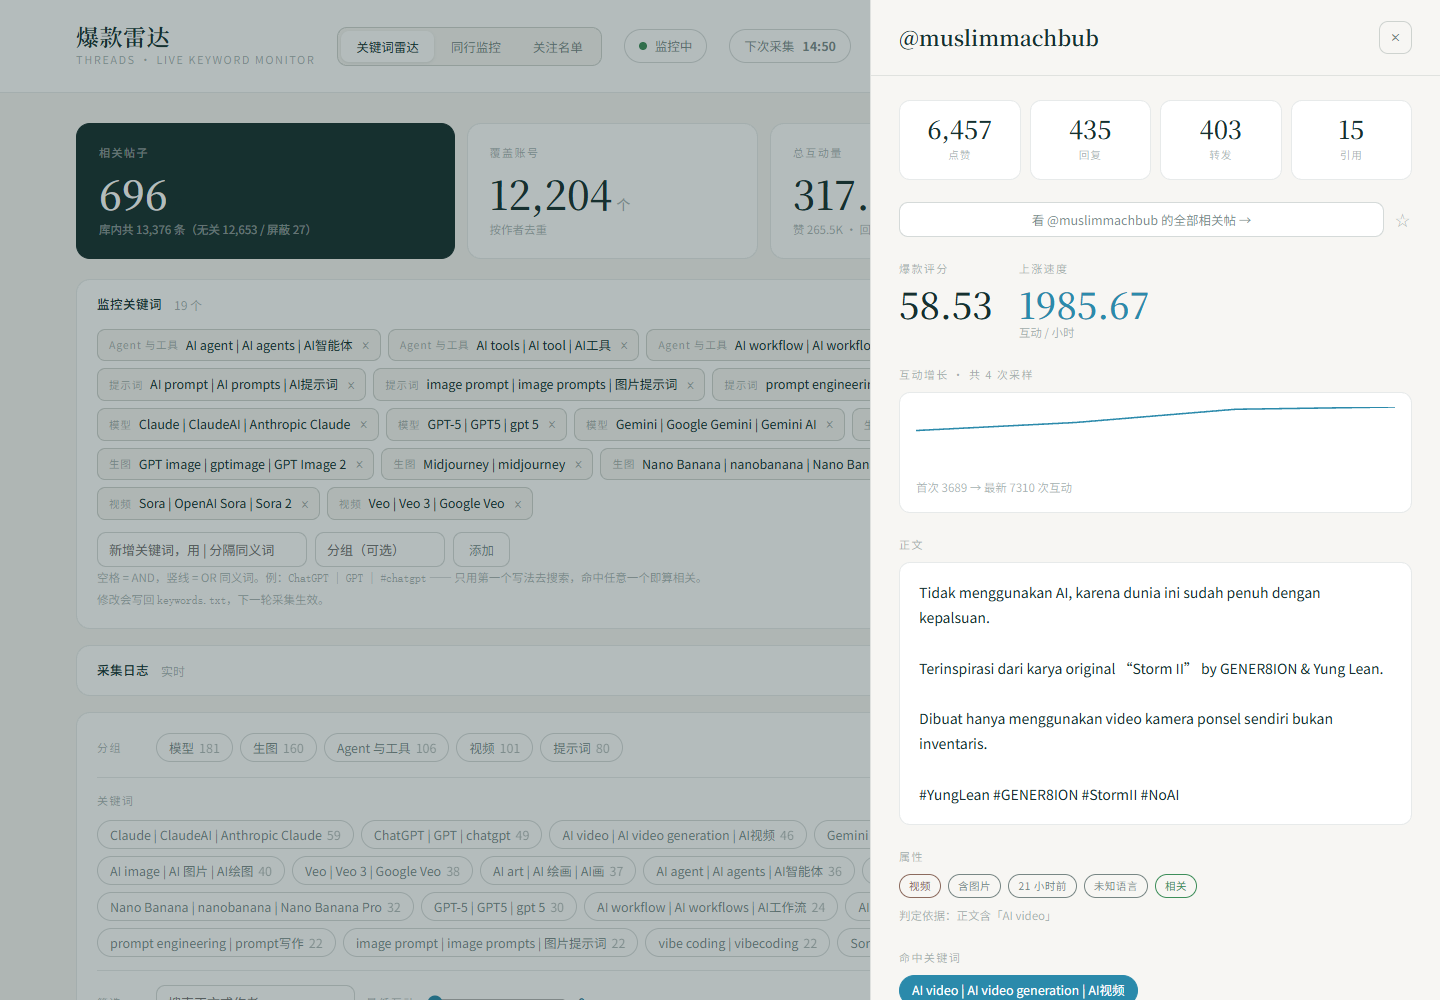
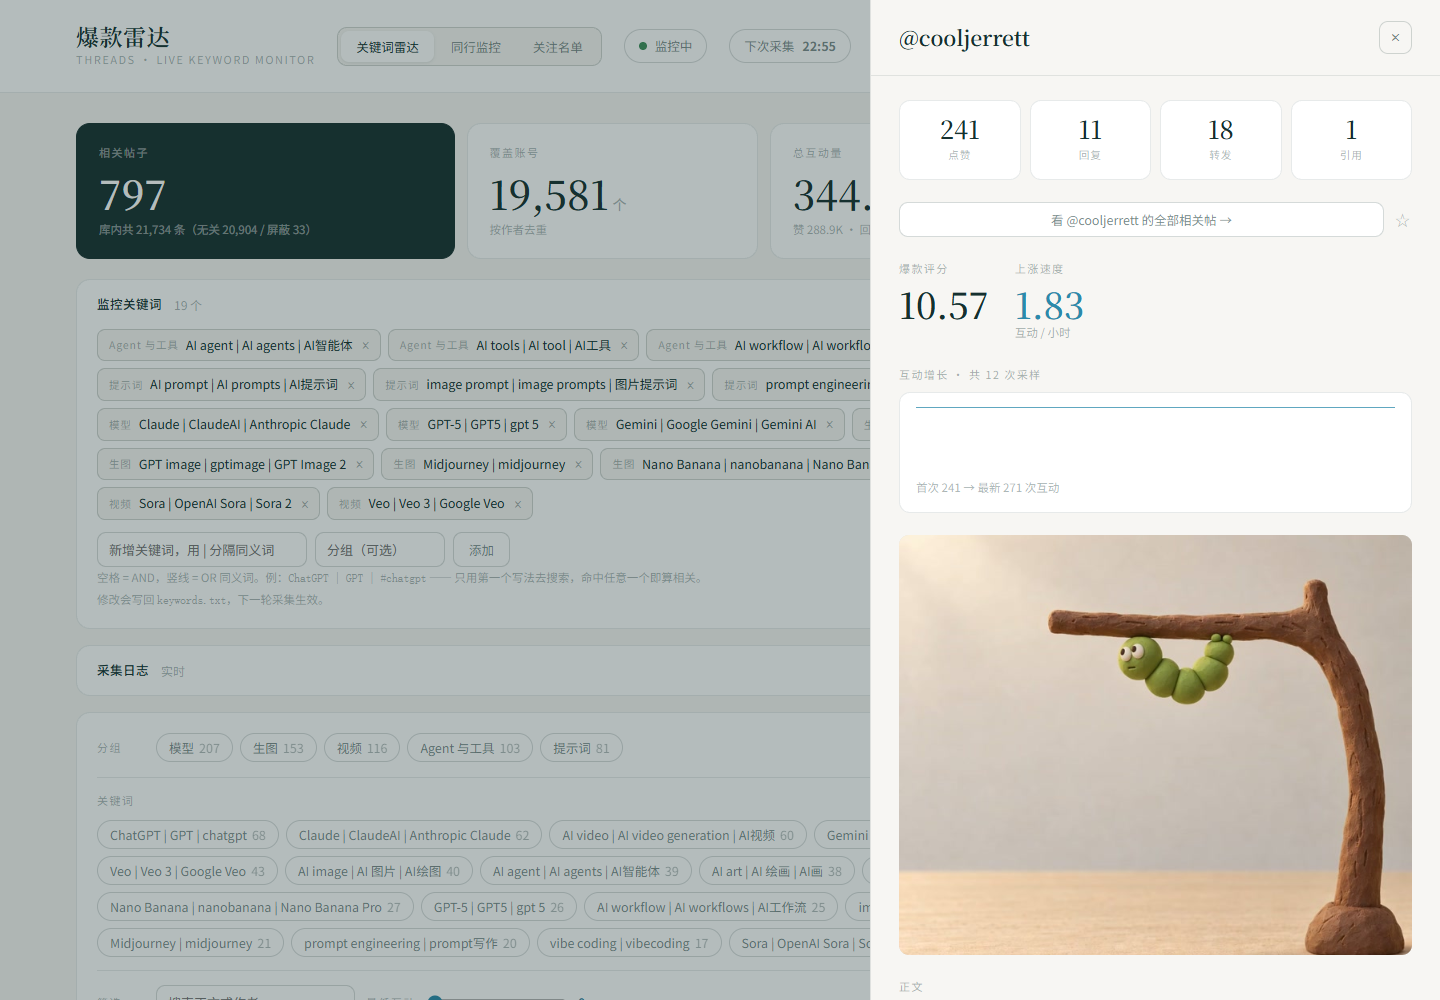
docs: 详情抽屉截图换成带主图的版本，补充缩略图相关说明
post-drawer.png 换成缩略图功能上线后重新拍的（黏土定格动画帖，
抽屉里主图 640x640 清晰可见，属性栏标「视频」），替换掉原先那张
纯文字时代的旧图 —— 否则 README 说支持缩略图、配图里却看不到一张图。

README 补充：
- 特性一览加「带缩略图」一条
- 界面预览里该图的说明加上「主图」
- HTTP 接口节说明 media_type / has_image / thumb 三个媒体字段，
  并提醒视频帖的缩略图是封面帧，「有图」不等于「是图片帖」
- 文件说明节加升级提示：覆盖文件重启即可，启动自动补列 + 修正存量
  has_image，但老帖的缩略图 URL 无法凭空恢复，只能等再次采集时回填

截图目录 _shots/ 仍在 .gitignore 内，未入库。

diff --git a/README.en.md b/README.en.md
@@ -25,6 +25,7 @@ Every view can export whatever you're currently looking at as CSV (opens cleanly
 
 - **Actually real-time**: a resident process collects on an interval, the page gets updates over SSE, and the leaderboard refreshes the moment a cycle finishes — no manual clicking
 - **All four engagement metrics**: likes / replies / reposts / quotes — the official API doesn't give you these
+- **Thumbnails**: images render in the list, card, and detail views, each post labelled text-only / single image / carousel / video — no need to open every post to judge what's trending
 - **Velocity as its own column**: `interactions / hour`, so you see what's *rising*, not just what's historically big
 - **Engagement growth curves**: every cycle writes a snapshot, so a post's growth is visible in its detail drawer
 - **Channel health checks + circuit breaker**: failures are classified by actual cause, and repeated empty cycles stop the monitor instead of hammering a blocked exit
@@ -41,7 +42,7 @@ Every view can export whatever you're currently looking at as CSV (opens cleanly
 |---|---|
 | **Keyword radar**<br>which post is hot · stat cards + keyword management | **Peer monitoring**<br>who keeps producing hits · tiers + table/card views |
 | ![Keyword radar](docs/radar.png) | ![Peer monitoring](docs/peers.png) |
-| **Watchlist**<br>who I follow just posted something · new ones float to the top | **Post detail drawer**<br>score · velocity · growth curve · matched keywords |
+| **Watchlist**<br>who I follow just posted something · new ones float to the top | **Post detail drawer**<br>media · score · velocity · growth curve · matched keywords |
 | ![Watchlist](docs/watchlist.png) | ![Post detail](docs/post-drawer.png) |
 
 ---
@@ -524,6 +525,12 @@ exports and scripted use — not limited to the 3,000 rows the browser keeps in 
 
 Database: `data/radar.db`, with five tables — `posts` / `snapshots` / `runs` / `keywords` / `watchlist`.
 
+> **Upgrading from an older version needs nothing from you — overwrite the files and restart.** On startup
+> the app adds the `thumb` column to `posts` and corrects the existing `has_image` values
+> (an `ALTER TABLE` plus one `UPDATE`; idempotent, deletes nothing). The one thing that can't be conjured
+> back is the thumbnail URL of old posts — it was never stored, so it backfills only when those posts get
+> collected again.
+
 ### HTTP API
 
 | Method | Path | Description |
@@ -551,6 +558,12 @@ Database: `data/radar.db`, with five tables — `posts` / `snapshots` / `runs` /
 Account handles in `/api/watchlist` are normalized: `@Xxx`, `https://www.threads.com/@Xxx/?hl=zh`, and
 `threads.net/@Xxx/` all collapse to lowercase `xxx`. Without normalization, `@SomeOne` and `someone`
 would show up as two separate rows.
+
+Every post from `/api/posts` and `/api/post/<code>` carries three media fields:
+`media_type` (`19` = text-only / `1` = single image / `8` = carousel / `2` = video),
+`has_image`, and `thumb` (the thumbnail URL, `null` when there is no image).
+**A video post has `media_type` `2`, but its thumbnail is the cover frame** — so "has an image"
+does not mean "is an image post". Use `media_type` to tell post types apart.
 
 `sort` for `/api/authors` accepts `hits` / `posts` / `interactions` / `avg_interactions` / `hit_rate` /
 `best_score` / `best_likes` / `new_count`. When omitted, a per-tier default applies — core/steady tiers

diff --git a/README.md b/README.md
@@ -25,6 +25,7 @@
 
 - **真·实时**：常驻进程按间隔自动采集，页面走 SSE 推送，采集完立即刷新，不用手动点
 - **四个互动指标齐全**：点赞 / 回复 / 转发 / 引用，一个都不少（官方 API 拿不到这些）
+- **带缩略图**：列表 / 卡片 / 详情三处都能看图，并标出这条是纯文字 / 单图 / 多图 / 视频 —— 判断爆款不用逐条点开
 - **上涨速度单列**：`互动量 / 小时`，看的是「正在涨」而不是「历史总量高」
 - **互动增长曲线**：每次采集写一条快照，详情里能看到一条帖子的增长轨迹
 - **通道健康检查 + 熔断**：失败原因分类到具体理由，连续零产出自动停，不硬敲被封的出口
@@ -41,7 +42,7 @@
 |---|---|
 | **关键词雷达**<br>哪条帖子正在火 · 统计卡 + 关键词管理 + 分组产出 | **同行监控**<br>谁在持续产出爆款 · 持续度分层 + 表格/卡片双视图 |
 | ![关键词雷达](docs/radar.png) | ![同行监控](docs/peers.png) |
-| **关注名单**<br>我盯的人里谁刚发了新东西 · 有新增的排最前 | **帖子详情抽屉**<br>爆款评分 · 上涨速度 · 互动增长曲线 · 命中关键词 |
+| **关注名单**<br>我盯的人里谁刚发了新东西 · 有新增的排最前 | **帖子详情抽屉**<br>主图 · 爆款评分 · 上涨速度 · 互动增长曲线 · 命中关键词 |
 | ![关注名单](docs/watchlist.png) | ![帖子详情](docs/post-drawer.png) |
 
 ---
@@ -497,6 +498,10 @@ urllib.error.URLError: Tunnel connection failed: 502 Bad Gateway
 
 数据库：`data/radar.db`，五张表 `posts` / `snapshots` / `runs` / `keywords` / `watchlist`。
 
+> **从旧版本升级不用做任何事，直接覆盖文件、重启即可。** 启动时会自动给 `posts` 补 `thumb` 列
+> 并修正存量 `has_image`（`ALTER TABLE` + 一条 `UPDATE`，幂等、不删数据）。
+> 唯一不会凭空恢复的是老帖的缩略图 URL——当年没存过，只能等它被再次采集到时回填。
+
 ### HTTP 接口
 
 | 方法 | 路径 | 说明 |
@@ -524,6 +529,12 @@ urllib.error.URLError: Tunnel connection failed: 502 Bad Gateway
 `/api/watchlist` 的账号名做了归一化：`@Xxx`、`https://www.threads.com/@Xxx/?hl=zh`、
 `threads.net/@Xxx/` 都会统一成小写 `xxx`；不归一化的话 `@SomeOne` 和 `someone`
 会在名单里变成两行。
+
+`/api/posts` 与 `/api/post/<code>` 每条都带这几个媒体字段：
+`media_type`（`19`=纯文字 / `1`=单图 / `8`=多图 / `2`=视频）、
+`has_image`（该帖是否有图）、`thumb`（缩略图 URL，无图时为 `null`）。
+**视频帖的 `media_type` 是 `2`，但缩略图里放的是封面帧**——所以「有图」不等于「是图片帖」，
+判断帖子类型要看 `media_type`。
 
 `/api/authors` 的 `sort` 可选：`hits` / `posts` / `interactions` / `avg_interactions` /
 `hit_rate` / `best_score` / `best_likes` / `new_count`。不传时按分层给默认值——
